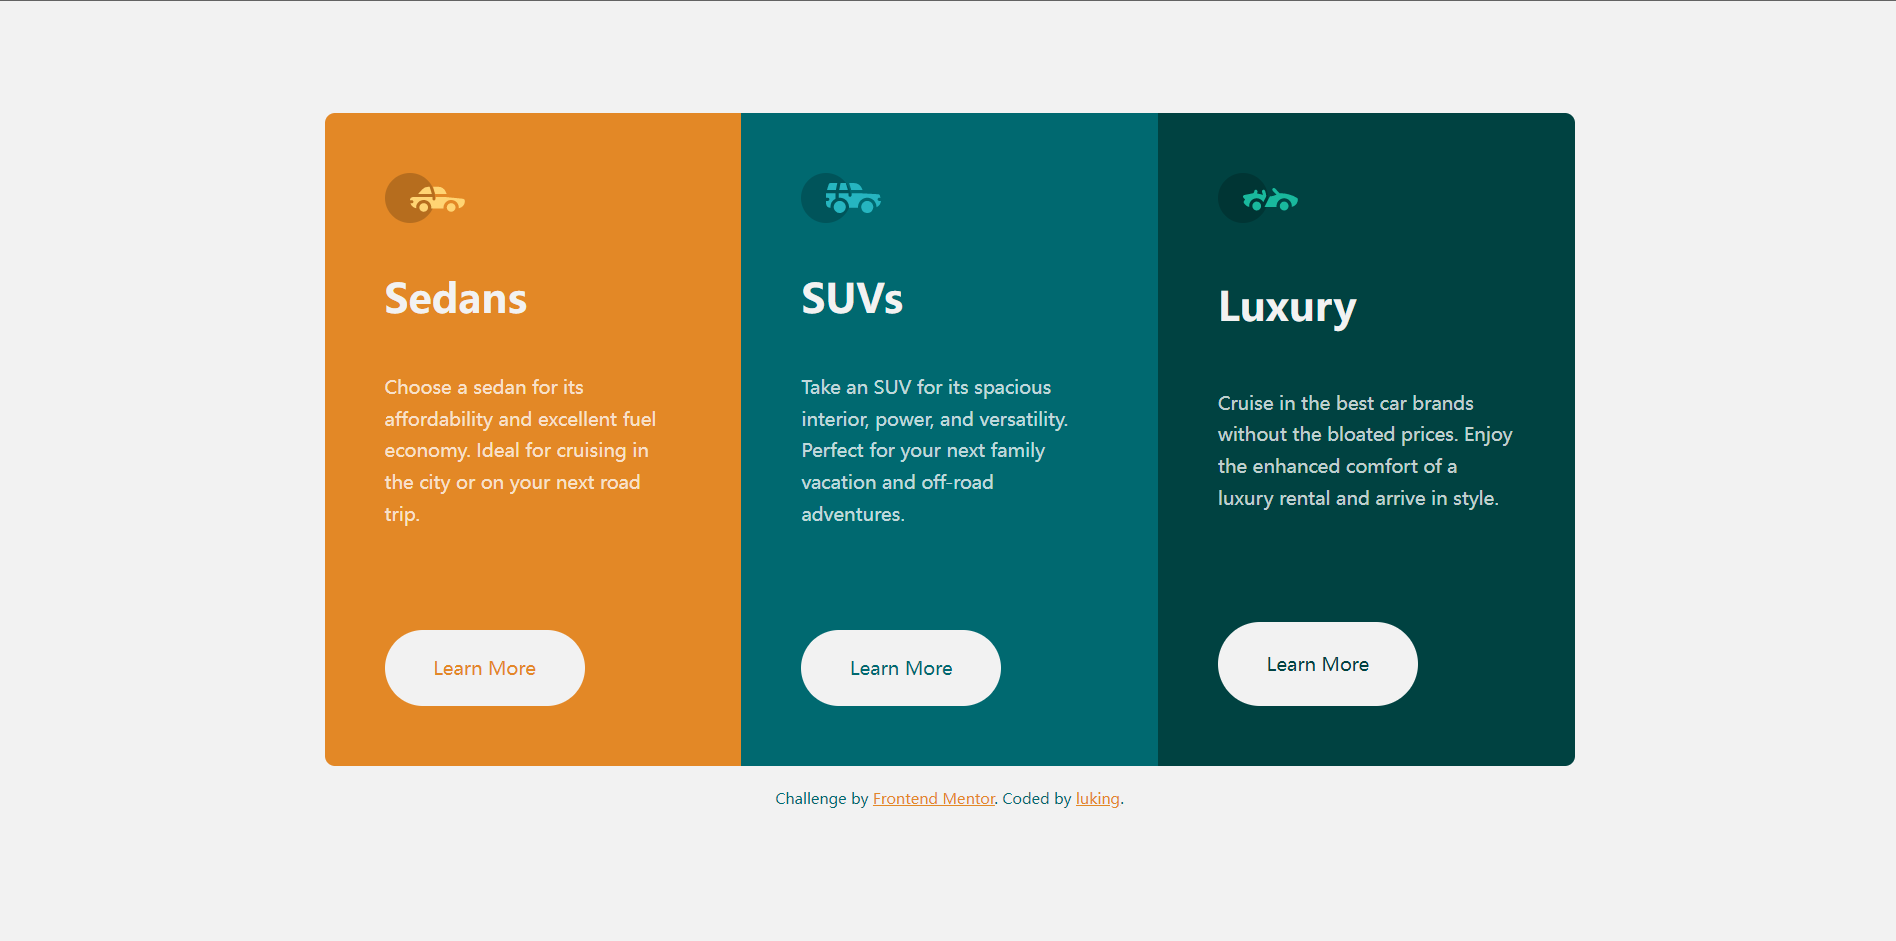
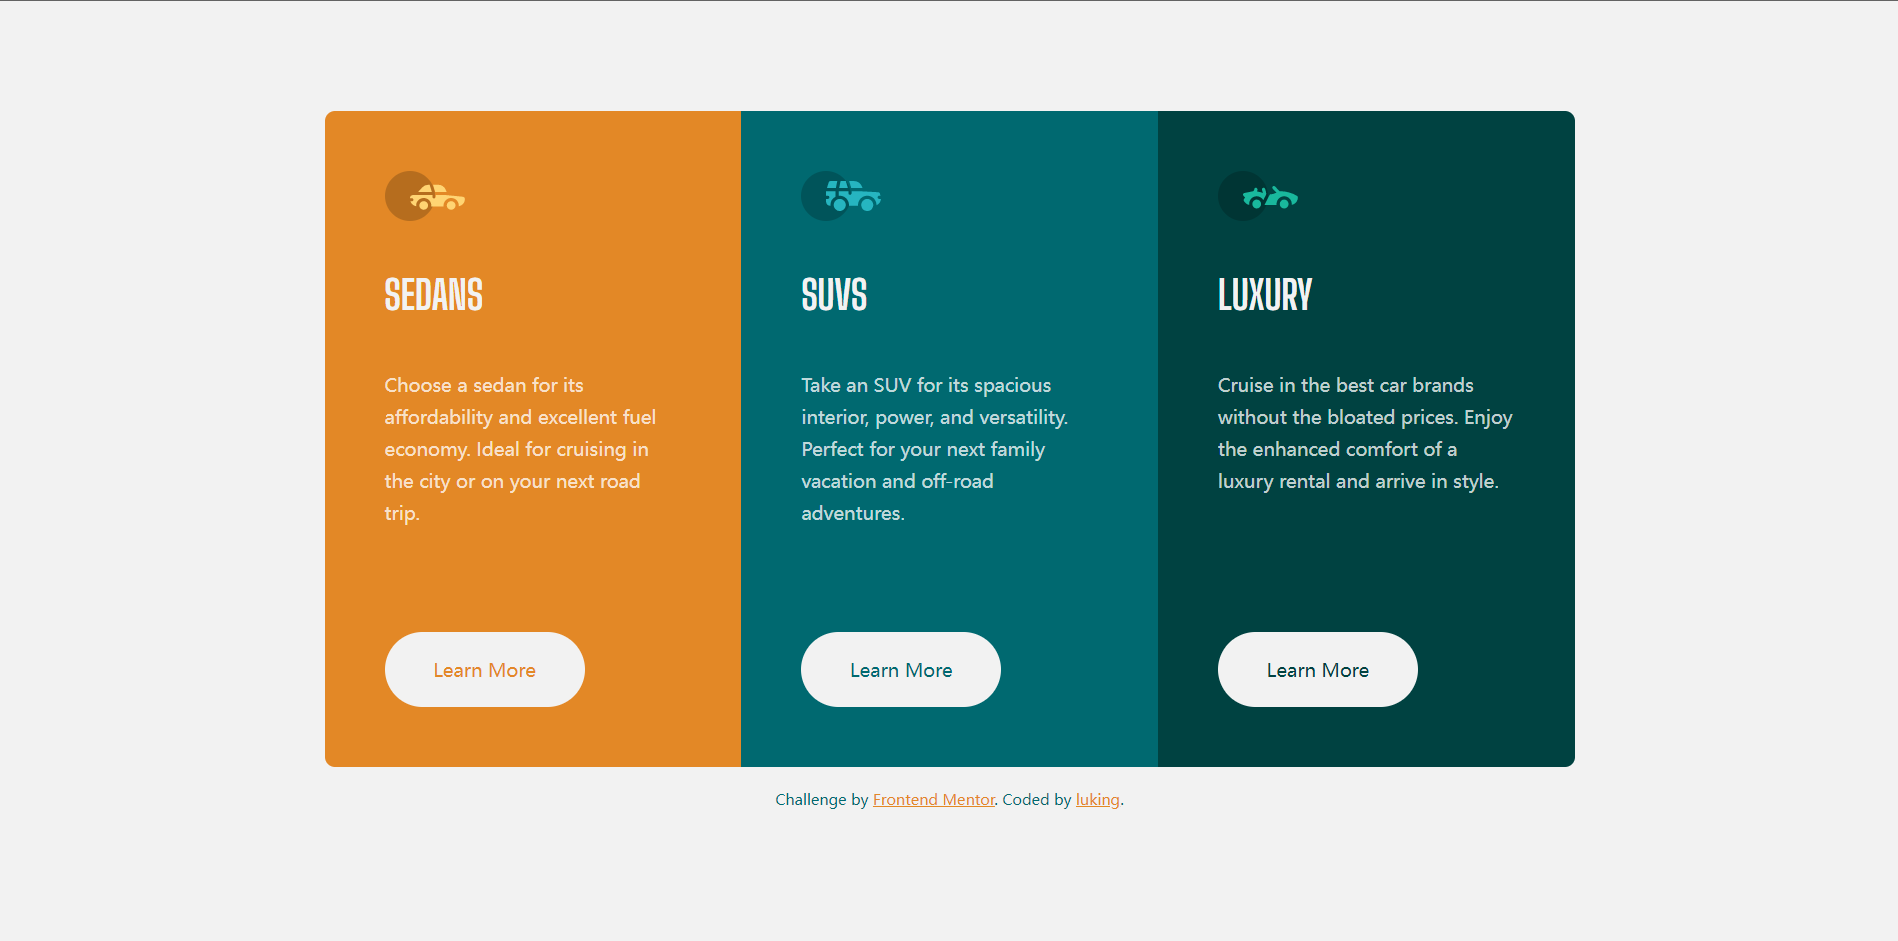
update css

diff --git a/3-column-preview-card-component/style.css b/3-column-preview-card-component/style.css
@@ -110,12 +110,20 @@ body {
   .card {
     --button-margin-top: 4rem;
   }
+
+  .card p {
+    /* 给一个相同的高度方便grid track 对齐 */
+    height: 130px;
+  }
 }
 
 .card__title {
   color: var(--clr-neutral-400);
   margin: 1rem 0;
   font-size: 2rem;
+  font-family: var(--ff-accent);
+  font-weight: var(--fw-bold);
+  text-transform: uppercase;
 }
 
 .card-1 {
